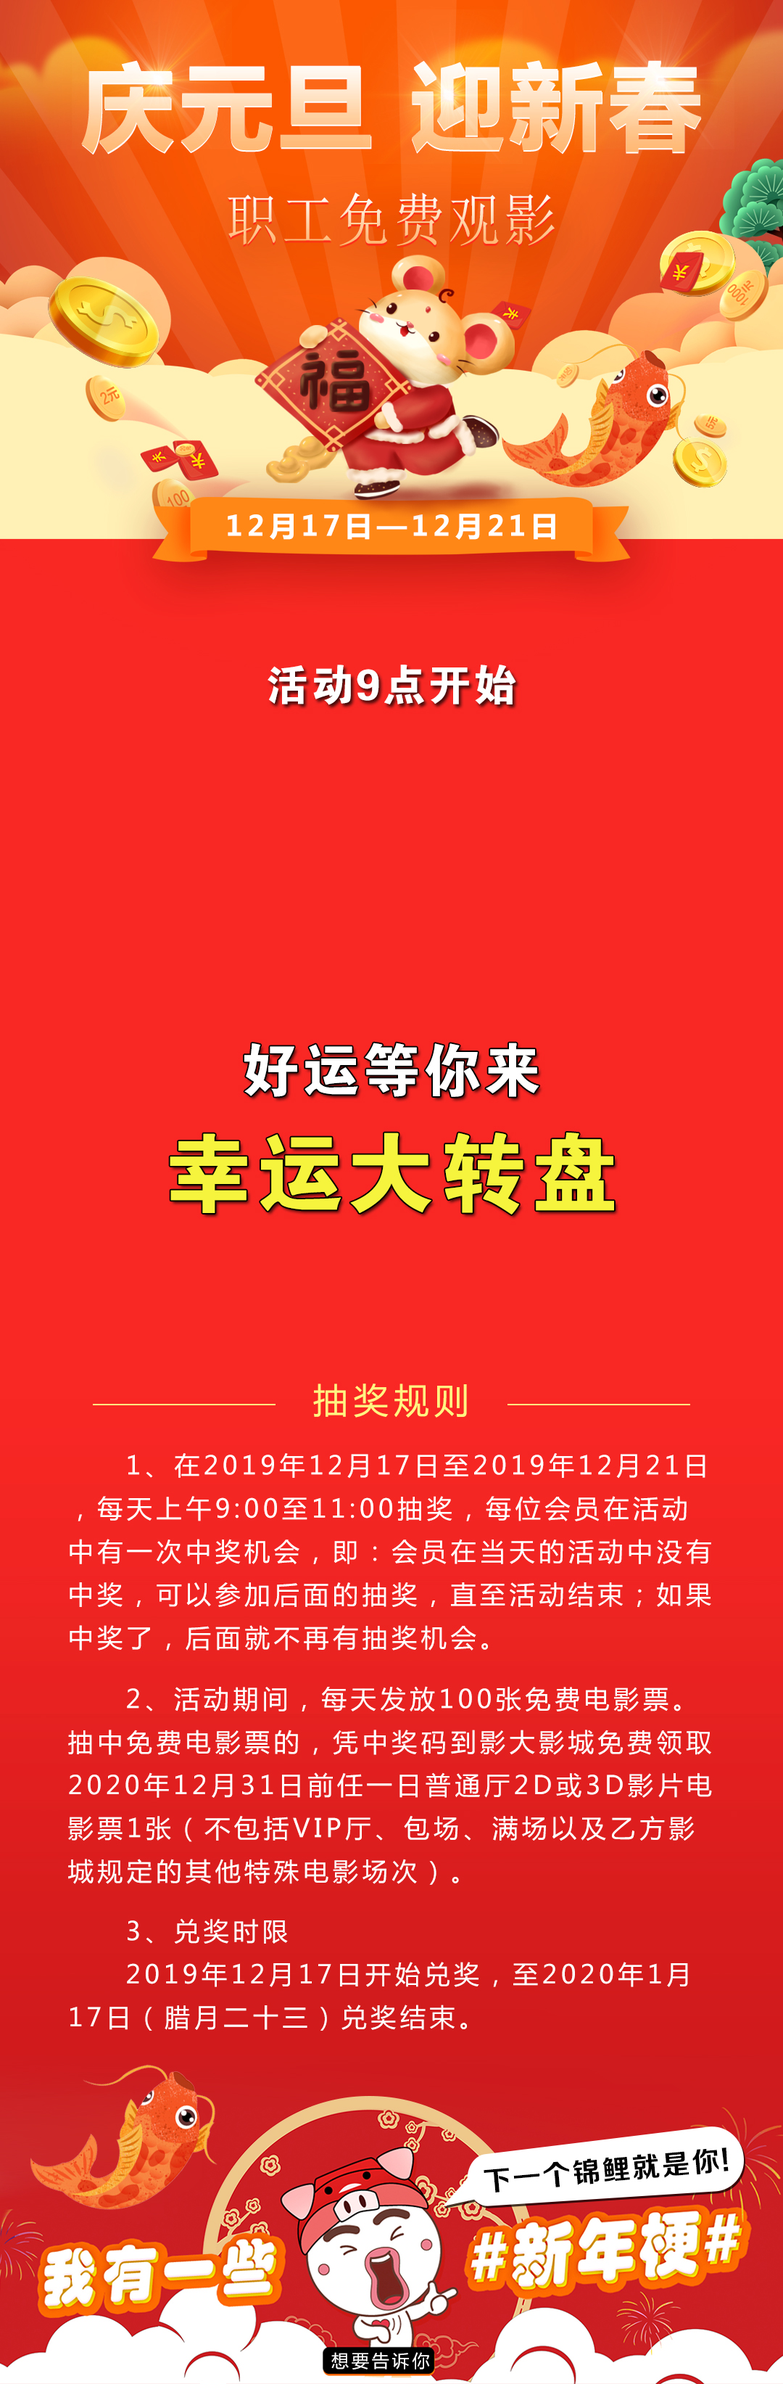
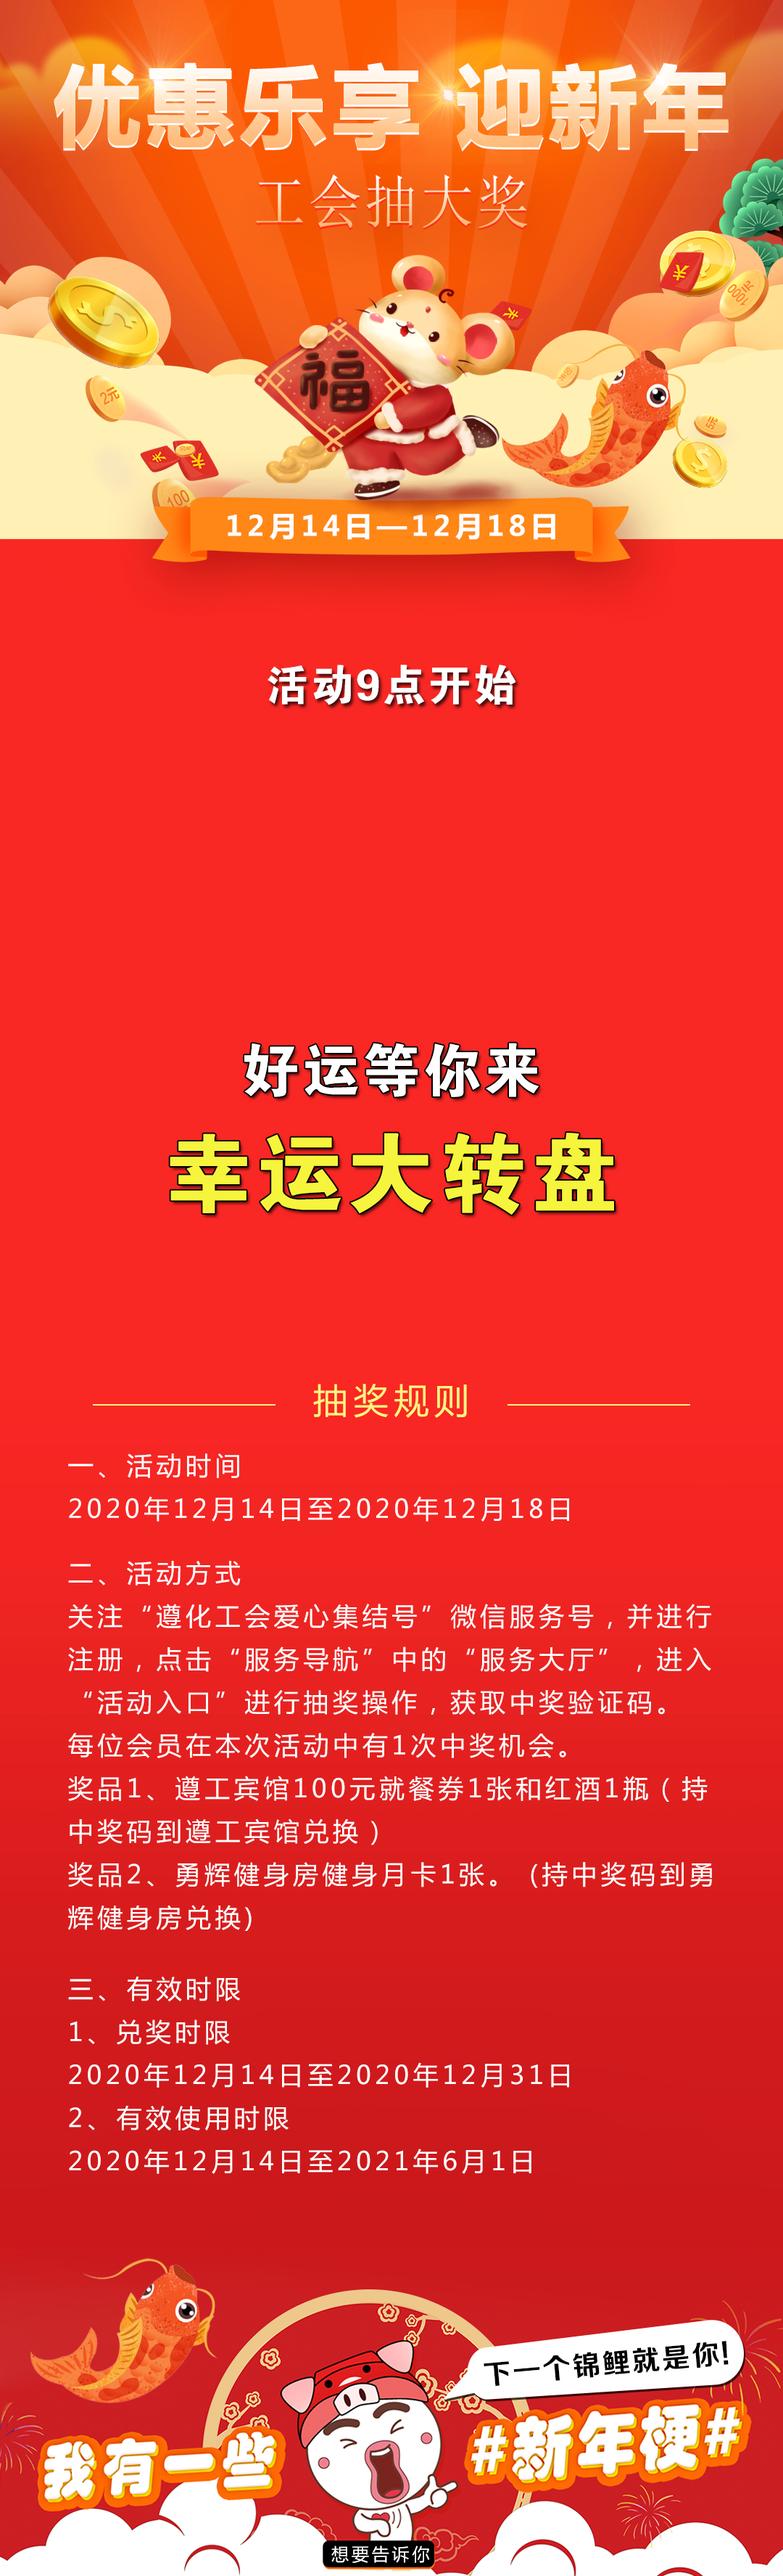
工会抽奖

diff --git a/app/guolaiwan-app2.0/guolaiwan-app-web Maven Webapp/src/main/webapp/lib/luckdraw/award.js b/app/guolaiwan-app2.0/guolaiwan-app-web Maven Webapp/src/main/webapp/lib/luckdraw/award.js
@@ -40,7 +40,7 @@ $(document).ready(function(){
 	//动态添加大转盘的奖品与奖品区域背景颜色
 	var num=location.hash;//根据接收过来的值判断概率。
 	//	alert(num.substr(1));
-	turnplate.restaraunts = [ "谢谢参与", "电影票", "电影票", "谢谢参与", "电影票","电影票","电影票","电影票", "谢谢参与"];
+	turnplate.restaraunts = [ "谢谢参与", "红酒+餐券", "健身月卡", "谢谢参与", "健身月卡","红酒+餐券","健身月卡","红酒+餐券", "谢谢参与"];
 	turnplate.colors = ["#FBDB00", "#FACA00", "#FBDB00", "#FACA00","#FBDB00", "#FACA00","#FBDB00","#FACA00","#FFEB64"];
 	//turnplate.fontcolors = ["#CB0030", "#FFFFFF", "#CB0030", "#FFFFFF","#CB0030", "#FFFFFF"];
 	
@@ -142,9 +142,9 @@ $(document).ready(function(){
 			success:function(data){
 				var innerdata = {"msg":"谢谢参与"};
 				if(data.data.result==1){
-					innerdata = {"msg":"电影票"};
+					innerdata = {"msg":"红酒+餐券"};
 				}else if(data.data.result==2){
-					innerdata = {"msg":"眼镜"};
+					innerdata = {"msg":"健身月卡"};
 				}
 				
 				//奖品数量等于10,指针落在对应奖品区域的中心角度[252, 216, 180, 144, 108, 72, 36, 360, 324, 288]

diff --git a/app/guolaiwan-app2.0/guolaiwan-app-web Maven Webapp/src/main/java/com/guolaiwan/app/web/publicnum/controller/LuckDrawController.java b/app/guolaiwan-app2.0/guolaiwan-app-web Maven Webapp/src/main/java/com/guolaiwan/app/web/publicnum/controller/LuckDrawController.java
@@ -63,7 +63,7 @@ public class LuckDrawController extends WebBaseControll {
 
 	@Autowired
 	SysConfigDAO conn_sys;
-	@RequestMapping(value = "/index", method = RequestMethod.GET)
+	@RequestMapping(value = "/indexxx", method = RequestMethod.GET)
 	public ModelAndView index(HttpServletRequest request) {
 		Map<String, Object> strMap = new HashMap<String, Object>();
 		strMap.put("webpath", conn_sys.getSysConfig().getWebUrl());
@@ -82,7 +82,7 @@ public class LuckDrawController extends WebBaseControll {
 		ModelAndView mv = new ModelAndView("mobile/vote/people", strMap);
 		return mv;
 	}
-	@RequestMapping(value = "/indexx")
+	@RequestMapping(value = "/index")
 	public ModelAndView luckdraw(HttpServletRequest request) throws Exception {
 		ModelAndView mv = null;
 		HttpSession session = request.getSession();
@@ -95,6 +95,11 @@ public class LuckDrawController extends WebBaseControll {
         //是否中奖
         LuckDrawRecord record=conn_luckdraw.getLuckRecordByUser(userInfoPO.getId());
         if(record!=null){
+        	if(record.getDrawProductId()==0){
+        		mv = new ModelAndView("luckdraw/luckresult");
+            	mv.addObject("result","today");
+            	return mv;
+        	}
         	mv = new ModelAndView("luckdraw/luckresult");
         	mv.addObject("result","godloveu");
         	mv.addObject("useit", record.getUseit());
@@ -104,13 +109,13 @@ public class LuckDrawController extends WebBaseControll {
         	return mv;
         }
     	//活动没开始
-    	if (now.getDate()<=16) {
+    	if (now.getDate()<=3) {
     		mv = new ModelAndView("luckdraw/luckresult");
 			mv.addObject("result","notstart");
 			return mv;
 		}
     	//活动结束
-    	if (now.getDate()<17||now.getDate()>21) {
+    	if (now.getDate()<4||now.getDate()>8) {
     		mv = new ModelAndView("luckdraw/luckresult");
     		mv.addObject("result","over");
     		return mv;
@@ -122,7 +127,7 @@ public class LuckDrawController extends WebBaseControll {
         	return mv;
 		}
     	//今日结束
-    	if (now.getHours()>=11) {
+    	/*if (now.getHours()>=11) {
     		if (now.getDate()==1) {
     			mv = new ModelAndView("luckdraw/luckresult");
         		mv.addObject("result","over");
@@ -131,10 +136,10 @@ public class LuckDrawController extends WebBaseControll {
     		mv = new ModelAndView("luckdraw/luckresult");
     		mv.addObject("result","todayover");
         	return mv;
-		}
+		}*/
         if(contact==null){
         	//奖品抽没了
-            if (glassnum>=250&&ticketnum>=100) {
+            if (glassnum>=20&&ticketnum>=20) {
             	if (now.getDate()==1) {
         			mv = new ModelAndView("luckdraw/luckresult");
             		mv.addObject("result","over");
@@ -148,14 +153,14 @@ public class LuckDrawController extends WebBaseControll {
         	return mv;
         }
         //今天抽过了
-        LuckDrawRecord todayRecord=conn_luckdraw.getuserTodayRecord(userInfoPO.getId());
+        /*LuckDrawRecord todayRecord=conn_luckdraw.getuserTodayRecord(userInfoPO.getId());
         if(todayRecord!=null){
         	mv = new ModelAndView("luckdraw/luckresult");
         	mv.addObject("result","today");
         	return mv;
-        }
+        }*/
         //奖品抽没了
-        if (glassnum>=250&&ticketnum>=100) {
+        if (glassnum>=20&&ticketnum>=20) {
         	if (now.getDate()==1) {
     			mv = new ModelAndView("luckdraw/luckresult");
         		mv.addObject("result","over");
@@ -234,9 +239,9 @@ public class LuckDrawController extends WebBaseControll {
 					obj[1] = luckDrawRecords.get(i).getUpdateTime();
 					obj[2] = luckDrawRecords.get(i).getUuid();
 					if (luckDrawRecords.get(i).getDrawProductId()==1) {
-						obj[3] = "电影票";
+						obj[3] = "红酒+餐券";
 					}else if (luckDrawRecords.get(i).getDrawProductId()==2) {
-						obj[3] = "眼镜";
+						obj[3] = "健身月卡";
 					}
 					//if (prizeid!=1) {
 						obj[4] = luckDrawRecords.get(i).getPhone();
@@ -271,15 +276,15 @@ public class LuckDrawController extends WebBaseControll {
         int resultNum=getRandom(1, 10);
         if(resultNum<=pos){
         	//这部分只有电影票
-        	int size=conn_luckdraw.countGodlike(1);
+        	/*int size=conn_luckdraw.countGodlike(1);
     		if(size>=100){
     			result=0;
     		}else{
     			result=1;
-    		}
+    		}*/
         	//下面又有眼镜又有电影票
-        	/*int secondRandom=getRandom(1, 7);
-        	if(secondRandom<=2){
+        	int secondRandom=getRandom(1, 10);
+        	if(secondRandom<=pos){
         		int size=conn_luckdraw.countGodlike(1);
         		if(size>=100){
         			result=0;
@@ -294,7 +299,7 @@ public class LuckDrawController extends WebBaseControll {
         		}else{
         			result=2;
         		}
-        	}*/
+        	}
         }
         LuckDrawRecord luckDrawRecord=new LuckDrawRecord();
         luckDrawRecord.setDrawProductId(result);

diff --git a/app/guolaiwan-app2.0/guolaiwan-app-business/src/main/java/com/guolaiwan/bussiness/admin/dao/LuckDrawDao.java b/app/guolaiwan-app2.0/guolaiwan-app-business/src/main/java/com/guolaiwan/bussiness/admin/dao/LuckDrawDao.java
@@ -19,7 +19,7 @@ public class LuckDrawDao extends AbstractBaseDao<LuckDrawRecord> {
 	public LuckDrawRecord getLuckRecordByUser(Long userId) {
 		QueryHql hql = this.newQueryHql();
 		hql.andBy("userId", Condition.eq, userId);
-		hql.andBy("drawProductId",Condition.ne,0);
+		//hql.andBy("drawProductId",Condition.ne,0);
 		List<LuckDrawRecord> luckDrawRecords = findByHql(hql);
 		if (luckDrawRecords == null || luckDrawRecords.size() <= 0)
 			return null;
@@ -53,9 +53,9 @@ public class LuckDrawDao extends AbstractBaseDao<LuckDrawRecord> {
 	}
 	public List<LuckDrawRecord> getAllRecordByPrize(String sName,int page,int limit){
 		QueryHql hql = this.newQueryHql();
-		if (sName.equals("电影票")) {
+		if (sName.equals("红酒+餐券")) {
 			hql.andBy("drawProductId",Condition.eq,1);
-		}else if (sName.equals("眼镜")) {
+		}else if (sName.equals("健身月卡")) {
 			hql.andBy("drawProductId",Condition.eq,2);
 		}
 		List<LuckDrawRecord> luckDrawRecords = findByHqlPage(hql,page,limit);
@@ -74,9 +74,9 @@ public class LuckDrawDao extends AbstractBaseDao<LuckDrawRecord> {
 	
 	public int countAllPrizeNum(String sName) {
 		CountHql cHql = this.newCountHql();
-		if (sName.equals("电影票")) {
+		if (sName.equals("红酒+餐券")) {
 			cHql.andBy("drawProductId",Condition.eq,1);
-		}else if (sName.equals("眼镜")) {
+		}else if (sName.equals("健身月卡")) {
 			cHql.andBy("drawProductId",Condition.eq,2);
 		}else if (sName=="") {
 			cHql.andBy("drawProductId", Condition.ne, 0);

diff --git a/app/guolaiwan-app2.0/guolaiwan-app-web Maven Webapp/src/main/java/com/guolaiwan/app/web/admin/vo/LuckDrawRecordVO.java b/app/guolaiwan-app2.0/guolaiwan-app-web Maven Webapp/src/main/java/com/guolaiwan/app/web/admin/vo/LuckDrawRecordVO.java
@@ -75,9 +75,9 @@ public class LuckDrawRecordVO extends AbstractBaseVO<LuckDrawRecordVO, LuckDrawR
 		SimpleDateFormat formatter = new SimpleDateFormat("yyyy-MM-dd HH:mm:ss");
 		String prize = "";
 		if (entity.getDrawProductId()==1) {
-			prize = "电影票";
+			prize = "红酒+餐券";
 		}else if (entity.getDrawProductId()==2) {
-			prize = "眼镜";
+			prize = "健身月卡";
 		}
 		this.setId(entity.getId())
 		.setUuid(entity.getUuid())
